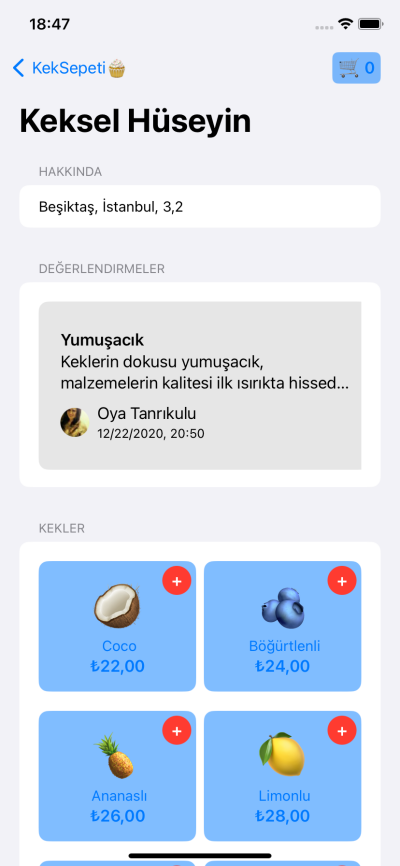
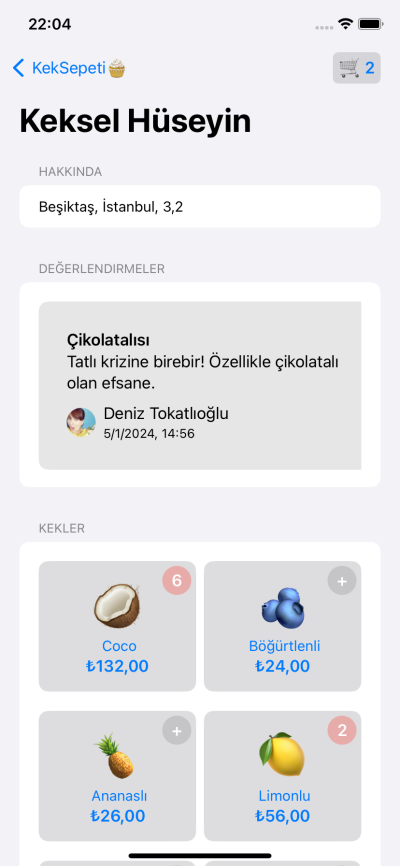
cake button color fix

diff --git a/KekSepeti/Views/CellViews/CakeRowView.swift b/KekSepeti/Views/CellViews/CakeRowView.swift
@@ -28,11 +28,11 @@ struct CakeRowView: View {
         }
         .frame(maxWidth: .infinity, maxHeight: 200)
         .padding()
-        .background(.secondary)
+        .background(.gray.opacity(0.3))
         .clipShape(.rect(cornerRadius: 10))
         .overlay(
             Circle()
-                .fill(.red)
+                .fill(product.quantity > 1 ? .red.opacity(0.3) : .gray.opacity(0.3))
                 .frame(width: 30, height: 30)
                 .padding(5)
                 .overlay(

diff --git a/KekSepeti/Views/MainViews/StoreListView.swift b/KekSepeti/Views/MainViews/StoreListView.swift
@@ -35,7 +35,7 @@ struct StoreListView: View {
                                 .font(.headline)
                                 .bold()
                                 .padding(6)
-                                .background(.secondary)
+                                .background(.gray.opacity(0.3))
                                 .clipShape(.rect(cornerRadius: 6))
                         }
                     }

diff --git a/KekSepeti/Views/MainViews/StoreView.swift b/KekSepeti/Views/MainViews/StoreView.swift
@@ -54,7 +54,7 @@ struct StoreView: View {
                             .font(.headline)
                             .bold()
                             .padding(6)
-                            .background(.secondary)
+                            .background(.gray.opacity(0.3))
                             .clipShape(.rect(cornerRadius: 6))
                     }
                 }
